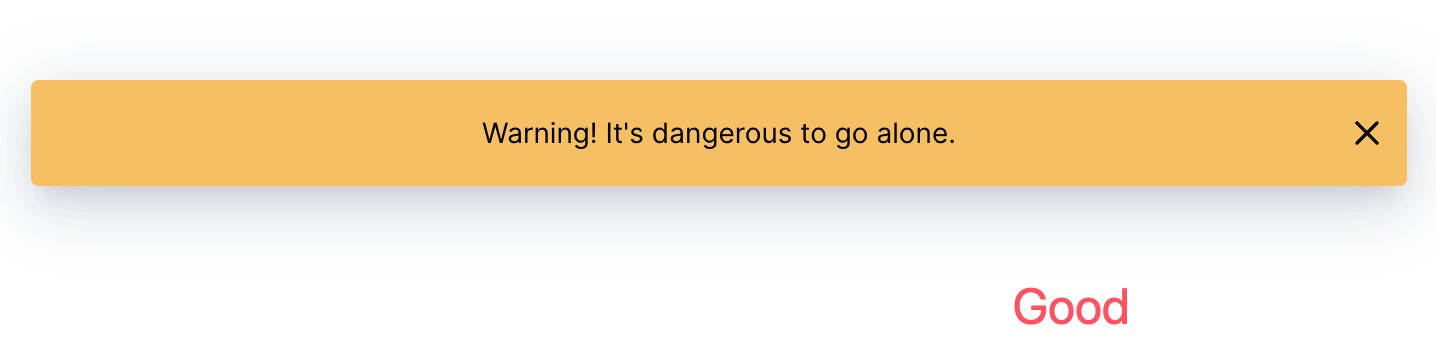
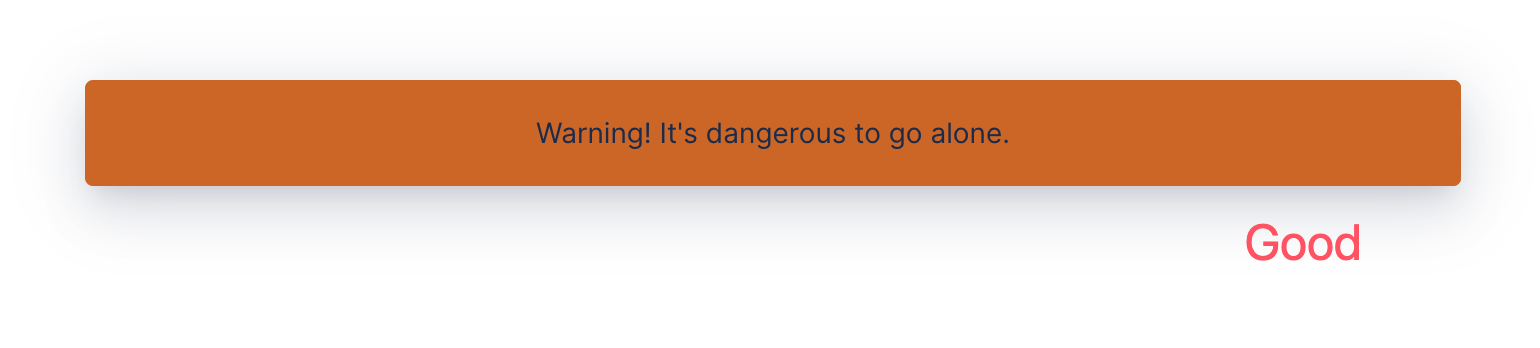
color inverse

Changed region(s): [[0.0, 0.2299, 0.9805, 0.5747], [0.7047, 0.8333, 0.7967, 0.9483], [0.7967, 0.6322, 0.8886, 0.7471]]

diff --git a/README.md b/README.md
@@ -4733,19 +4733,49 @@ For those importand elements of your website (application), you need to use inve
 
 This usually happens on elements with bold backgrounds, like important buttons, error tips, warning toast etc.
 
-![red good](red-good.png)
-
-Using white text on a red background to emphasis error/fail informations is a best practise while black text is not.
+By far, our default text color is the grey color `{color.text.default}` (`{color.accent.neutral.11}`), if you use this text color to show a error message, it can be quite fuzzy because the text color `#172b4d` has a low contrast against the red background `#ae2e24`, which delivers a weak intention.
 
 ![red bad](red-bad.png)
 
-However, using black (grey) text on an orange background to emphasis warning information is a much better choice than white text.
+Instead, the best practise to emphasis error/fail informations is using white text (`color.accent.neutral.1`).
 
-![orange good](orange-good.png)
+![red good](red-good.png)
+
+Now, the white color is the inverse color of the red background.
+
+However, imagine we're using the subtle orange color (`{color.accent.orange.subtle}`, `#da5f00`) as the background to display a warning toast, using black (grey) text emphasis warning information is a much better choice than white text.
 
 ![orange bad](orange-bad.png)
 
-#### Create Inverse Colors for Backgrounds
+![orange good](orange-good.png)
+
+Generally speaking, we should be using white text, border, or graphical objects like icon, on darker backgrounds, and black (grey text) ones on light backgrounds.
+
+#### Create Inverse Text/Icon/Border Colors for Bold Backgrounds
+
+`tokens/color/shortcut/text.js`:
+
+```diff
+export default {
+  color: {
+    text: {
++     inverse: {
++       value: '{color.accent.neutral.1}',
++       type: 'color'
++     },
+```
+
+`tokens/color/shortcut/border.js`:
+
+```diff
+export default {
+  color: {
+    border: {
++     inverse: {
++       value: '{color.accent.neutral.1}',
++       type: 'color'
++     },
+```
 
 ### Theme Color Conversion
 
